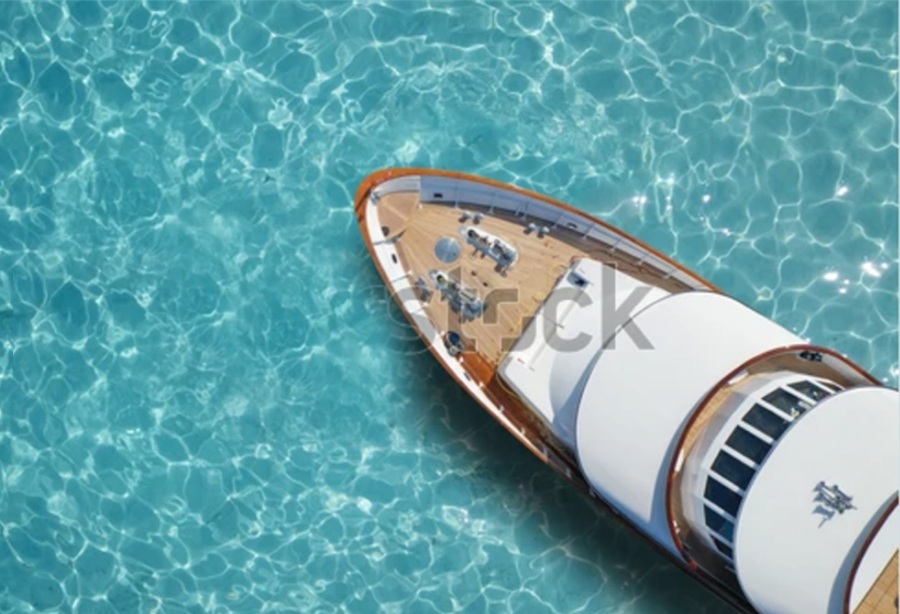
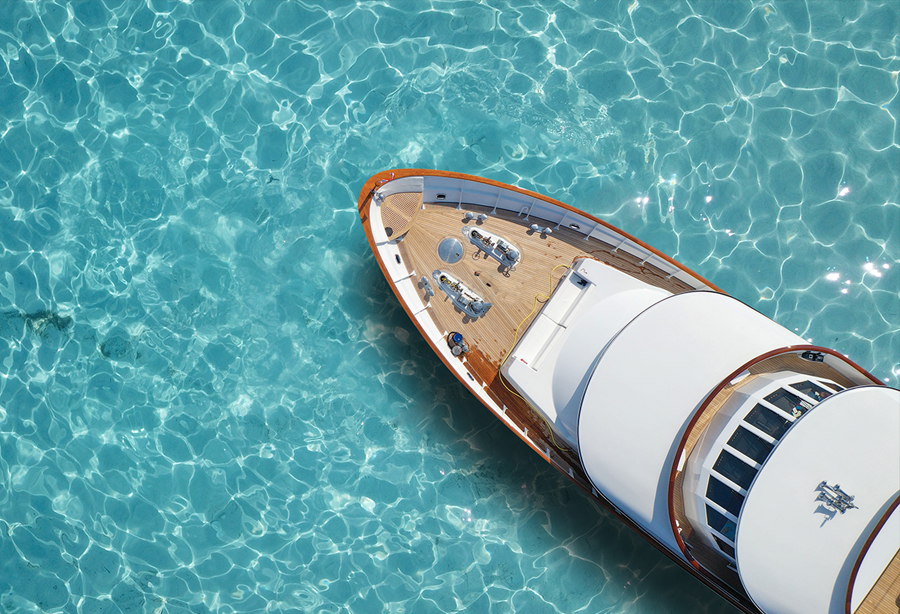
added accordians and high res images

diff --git a/template.html b/template.html
@@ -46,12 +46,101 @@
 
 
 <div class="test1" id="test1">
-  <img src="assets/images/yacht_main.jpg"  class="d-block w-100 page-main-image" alt="...">
+  <img src="assets/images/mainimage_yachts.jpg"  class="d-block w-100 page-main-image" alt="...">
 <div class="title"><h1>Yachts </h1></div>
   <div class="blue-content-box slide-tl">
-    <p>Lorem ipsum dolor sit amet, consectetur adipiscing elit, sed do eiusmod tempor incididunt ut labore et dolore magna aliqua. Ut enim ad minim veniam, quis nostrud exercitation ullamco laboris nisi ut aliquip ex ea commodo consequat. Duis aute irure dolor in reprehenderit in voluptate velit esse cillum dolore eu fugiat nulla pariatur. Excepteur sint occaecat cupidatat non proident, sunt in culpa qui officia deserunt mollit anim id est laborum.</p>
+    <p>Yachts are assets which can represent a significant investment. The careful structuring for these assets and their management, therefore, is essential.</p>
+
+    <p>The services which Fiducs provide in relation to yacht management are listed below, however, where other more specialist skills not listed are required, we work together with trusted specialists to provide complete one point of contact packages.</p>
+    
+   <h5>Acquisition Services</h5> 
+    <ul>
+      <li> Yacht Purchase Finance</li>
+      <li>  Financial Structuring</li>
+      <li>   Ownership</li>
+
+
+    </ul>
+   
+  
+    <h5>Ownership</h5>
+    <ul>
+      <li>    Jurisdiction and Structure</li>
+      <li> Tax and VAT planning</li>
+      <li>Corporate Services</li>
+    </ul>
+    
+
+   
+    
+
+<h5>  Yacht  Formalities</h5>
+  
+    <ul>
+      <li> Registration</li>
+      <li>    Owner Representative</li>
+      <li>  Other Representative required positions</li>
+      <li>   Insurance</li>
+   
+    </ul>
+    <h5>Yacht Operational Management Services</h5>
+    <ul>
+      <li>    Crewing Recruitment, Employment and Payroll</li>
+      <li> MLC compliance</li>
+      <li> ISM and ISPS</li>
+      <li>Technical Support</li>
+      <li> Financial control and services</li>
+      <li> Operations and logistics</li>
+    </ul>
+   
+   <h5>Procuration</h5>
+   <ul>
+     <li>Travel arrangements</li>
+     <li>Parts and accessories</li>
+     <li>  Internal accessories</li>
+     <li> “Boys Toys”</li>
+     <li> Luxury Concierge and Personal Shopping</li>
+   </ul>
+    
+    
+    
+   <div class="accordion">OWNERSHIP +</div>
+   <div class="panel">
+     <p>When purchasing a yacht it is important to consider the use of corporate structures which can not  only assist with tax and VAT planning but also ring fence exposure and limit liability.</p>
+
+      <p>A full list of corporate services can be found on our Corporate Services page which we provide alongside other yacht management services.</p>
+      
+      <p>Fiducs can also assist in the arrangement of appropriate insurance cover and purchase finance through one of our established connections. For more information, please contact us.</p>
+   </div>
+   
+   <div class="accordion">Safety + </div>
+   <div class="panel">
+     <p>We provide ISM & ISPS services as a bespoke standalone service or as part of our full management package as well as flag state approved systems for vessels from PYC (Passenger Yacht Code) Vessels to yachts under 24 meters and 24/7 crisis support and full document control.</p>
+   </div>
+   
+   <div class="accordion">CREW EMPLOYMENT & PAYROLL +</div>
+   <div class="panel">
+     <p>Fiducs offers crew employment and payroll including flag state approved MLC seafarers agreements (SEA), maintaining crew records, monitoring crew certificates ensuring compliance with regulations and crew recruitment including vetting, back ground checks, referencing, security checks and drug testing.</p>
+     <p>Our concierge arm can also organise flight and travel arrangements for crew members.
+
+    </p>
+   </div>
+   
+    
+   <div class="accordion">OPERATIONS & LOGISTICS +</div>
+   <div class="panel">
+     <p>Fiducs Yacht Management will make arrangements to facilitate and safeguard the world-wide operation of the yacht such as assisting in berthing arrangements, bunkering and ship agents where required.</p>
+   </div>
+
+   <div class="accordion">PROCURATION +</div>
+   <div class="panel">
+     <p>Our Concierge services can assist in a wide range of procuration services for yachts from travel arrangements to luxury personal shopping to parts and living incidentals to “boys toys”.</p>
+   </div>
+    
+    
 
   </div>
+  
       <!-- nav icon button-->
       <div class="nav"><!--nav-->
 
@@ -233,6 +322,27 @@
                 <script src="https://cdn.jsdelivr.net/npm/bootstrap@5.1.0/dist/js/bootstrap.bundle.min.js"></script>
                 <script src="https://code.jquery.com/jquery-3.6.0.min.js" ></script>
                 <script src="assets/js/javascript.js"></script>
+
+                <script>
+                  var acc = document.getElementsByClassName("accordion");
+var i;
+
+for (i = 0; i < acc.length; i++) {
+  acc[i].addEventListener("click", function() {
+    /* Toggle between adding and removing the "active" class,
+    to highlight the button that controls the panel */
+    this.classList.toggle("active");
+
+    /* Toggle between hiding and showing the active panel */
+    var panel = this.nextElementSibling;
+    if (panel.style.display === "block") {
+      panel.style.display = "none";
+    } else {
+      panel.style.display = "block";
+    }
+  });
+}
+                </script>
                
             </body>
             </html>

diff --git a/assets/css/style.css b/assets/css/style.css
@@ -80,6 +80,7 @@
   cursor: pointer!important;
   padding-top:2%;
   z-index: 99;
+
 }
 
 .translate-div img{
@@ -90,6 +91,7 @@
 
 .translate{
   cursor: pointer!important;
+  margin-left:100px;
 }
 
 .translate-div{
@@ -113,7 +115,7 @@
   .hamburger ,.hamburger1{
       color:white;
       font-size:1.6em;
-   
+     z-index: 9999;
       padding:4px;
       padding-bottom:20px;
       cursor: url(../images/bspoke-cursor.png), auto;
@@ -218,7 +220,7 @@ width:600px!important;
      
      left: 0;
      height: 110vh;
-     margin-top: 6%;
+     margin-top: 2%;
  
   
    
@@ -850,7 +852,7 @@ left:10%;
 }
 
 .blue-content-box{
-    height:900px;
+    
     float:right;
     width:700px;
     background-color:rgba(17, 87, 104,0.8) ;
@@ -867,6 +869,7 @@ left:10%;
    padding-right: 50px;
    padding-left: 20px;
    padding-top:40px;
+   padding-bottom:50px;
 
     
 
@@ -875,6 +878,57 @@ left:10%;
 .blue-content-box p{
     font-size: 1.2em;
 
+}
+.blue-content-box h5{
+  font-family: Avenir, Helvetica, sans-serif;
+  font-size: 14px;
+  font-weight:bolder;
+}
+
+.blue-content-box ul li{
+  list-style-type: none;
+  font-family: Avenir-book, Helvetica, sans-serif;
+  font-size: 14px;
+}
+
+/*acordians*/
+/* Style the buttons that are used to open and close the accordion panel */
+.accordion {
+  
+  color: white;
+  text-transform: uppercase;
+  font-size: 1.2em;
+  font-family: Avenir, Helvetica, sans-serif;
+  cursor: pointer;
+  padding: 18px;
+  padding-right: 0;
+  width: 100%;
+  text-align: right;
+  border-bottom: 1px solid grey;
+  outline: none;
+  transition: 0.4s;
+}
+
+/* Add a background color to the button if it is clicked on (add the .active class with JS), and when you move the mouse over it (hover) */
+.active, .accordion:hover {
+  background-color: #ccc;
+}
+
+/* Style the accordion panel. Note: hidden by default */
+.panel {
+  padding: 0px;
+ 
+  display: none;
+  overflow: hidden;
+
+
+}
+
+.panel p{
+  font-family: Avenir-book, Helvetica, sans-serif;
+  font-size: 14px!important;
+  color:white;
+  padding-right: 0;
 }
 
 .footer-page{

diff --git a/index.html b/index.html
@@ -79,7 +79,7 @@ pageLanguage: 'en'
               </video> -->
           </div>
           <div class="carousel-item" data-bs-interval="4000">
-            <img src="assets/images/colourful_main.jpg" class="d-block w-100 puff-in-hor   lazy slider-image" alt="...">
+            <img src="assets/images/mainimage_kayaks.jpg" class="d-block w-100 puff-in-hor   lazy slider-image" alt="...">
             <div class="top-left">A modern<br> firm with<br> traditional <br>values</div>
           </div>
           <div class="carousel-item" data-bs-interval="4000">
@@ -132,7 +132,7 @@ pageLanguage: 'en'
             <div class="col-md-6 col-xl-6">
 
                 <div class="pic-outer">
-                    <div class="pic-inner animation-element"><img src="assets/images/spiralstaircase_image.jpg" class="inner-img " loading="lazy" alt=""/></div>
+                    <div class="pic-inner animation-element"><img src="assets/images/spiral_staircase_image.jpg" class="inner-img " loading="lazy" alt=""/></div>
                 </div>
 
 
